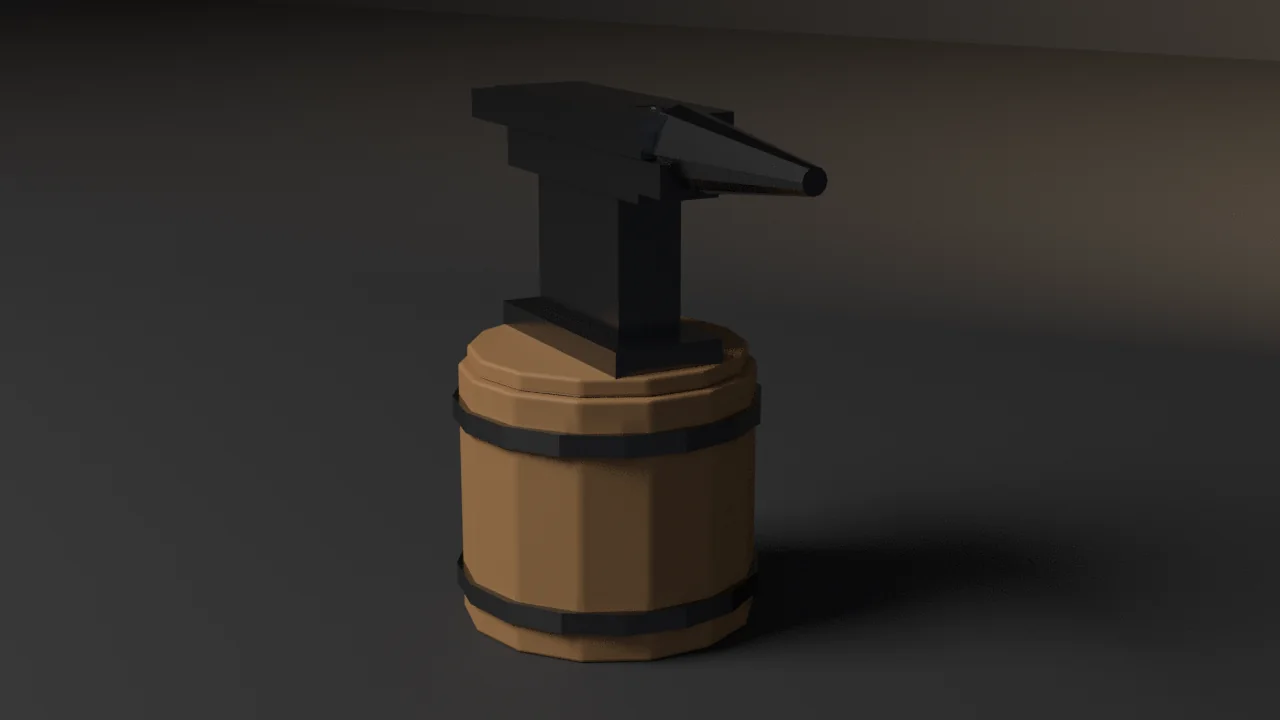
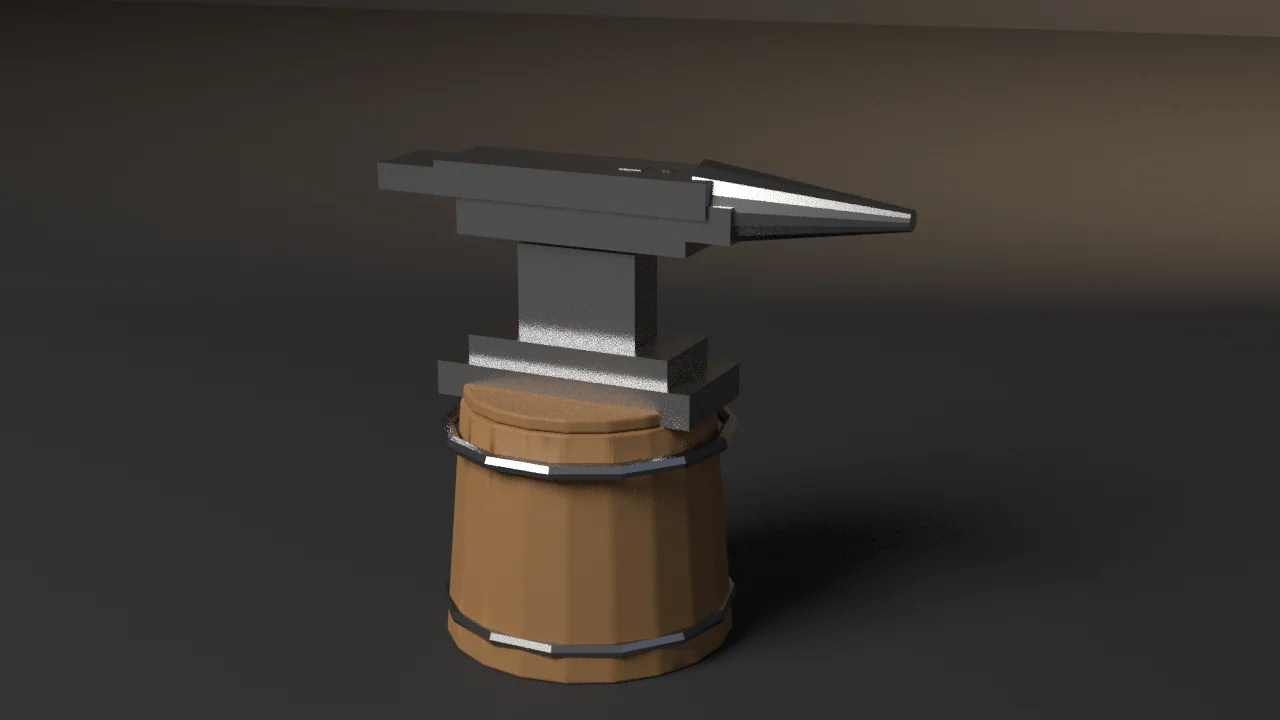
fix: rebuild anvil as a London-pattern silhouette
Stepped body, 16-seg horn, torus hoops, and a side-on camera so
the piece reads as an anvil instead of a stack of dark boxes.

Changed region(s): [[0.2812, 0.0917, 0.7188, 0.9472]]

diff --git a/showcase/anvil/anvil.py b/showcase/anvil/anvil.py
@@ -49,9 +49,9 @@ HORN_L = 0.28
 HEEL_L = 0.11
 
 BBOX_TOL = 0.01
-OUTER_SIZE = (0.750, 0.406, 0.690)
-BASE_TRIS_MIN = 980
-BASE_TRIS_MAX = 1140
+OUTER_SIZE = (0.746, 0.410, 0.682)
+BASE_TRIS_MIN = 1620
+BASE_TRIS_MAX = 1780
 LOD1_RATIO_MIN = 0.32
 LOD1_RATIO_MAX = 0.62
 LOD2_RATIO_MIN = 0.10
@@ -177,6 +177,37 @@ def add_cone(bm, loc, radius1, radius2, depth, segments, mat_idx, euler=(0.0, 0.
     return verts
 
 
+def add_rim(bm, loc, major, minor, mat_idx, euler=(0.0, 0.0, 0.0)):
+    n_major = 14
+    n_minor = 7
+    rings = []
+    for i in range(n_major):
+        u = i * (2.0 * math.pi / n_major)
+        ring = []
+        for j in range(n_minor):
+            v = j * (2.0 * math.pi / n_minor)
+            x = (major + minor * math.cos(v)) * math.cos(u)
+            y = (major + minor * math.cos(v)) * math.sin(u)
+            z = minor * math.sin(v)
+            ring.append(bm.verts.new((x, y, z)))
+        rings.append(ring)
+    bm.verts.ensure_lookup_table()
+    for i in range(n_major):
+        i2 = (i + 1) % n_major
+        for j in range(n_minor):
+            j2 = (j + 1) % n_minor
+            face = bm.faces.new(
+                (rings[i][j], rings[i2][j], rings[i2][j2], rings[i][j2])
+            )
+            face.material_index = mat_idx
+    verts = [v for ring in rings for v in ring]
+    rot = Euler(euler).to_matrix()
+    origin = Vector(loc)
+    for v in verts:
+        v.co = rot @ v.co + origin
+    return verts
+
+
 def pack_uvs(bm, margin=0.08):
     uv = bm.loops.layers.uv.new("UVMap")
     faces = list(bm.faces)
@@ -227,17 +258,23 @@ def build_anvil_mesh(name, bevel_offset, bevel_segments):
         metal = []
 
         wood.extend(
-            add_cyl(
-                bm, (0.0, 0.0, STUMP_H / 2.0), STUMP_R, STUMP_H, 14, WOOD_IDX,
+            add_cone(
+                bm,
+                (0.0, 0.0, STUMP_H / 2.0),
+                STUMP_R + 0.010,
+                STUMP_R - 0.018,
+                STUMP_H,
+                20,
+                WOOD_IDX,
             )
         )
         wood.extend(
             add_cyl(
                 bm,
-                (0.0, 0.0, STUMP_H + 0.012),
-                STUMP_R - 0.012,
-                0.024,
-                14,
+                (0.0, 0.0, STUMP_H + 0.010),
+                STUMP_R - 0.022,
+                0.020,
+                20,
                 WOOD_IDX,
             )
         )
@@ -256,44 +293,45 @@ def build_anvil_mesh(name, bevel_offset, bevel_segments):
             for f in ret.get("faces") or []:
                 f.material_index = WOOD_IDX
 
-        for z in (0.055, STUMP_H - 0.055):
+        for z in (0.048, STUMP_H - 0.042):
             metal.extend(
-                add_cyl(
-                    bm,
-                    (0.0, 0.0, z),
-                    STUMP_R + 0.008,
-                    0.028,
-                    16,
-                    METAL_IDX,
-                )
+                add_rim(bm, (0.0, 0.0, z), STUMP_R + 0.004, 0.011, METAL_IDX)
             )
 
         z0 = STUMP_H
         metal.extend(
             add_box(
                 bm,
-                (0.0, 0.0, z0 + 0.028),
-                (FOOT_L, FOOT_W, 0.056),
+                (0.0, 0.0, z0 + 0.024),
+                (0.38, 0.168, 0.048),
                 METAL_IDX,
             )
         )
         metal.extend(
             add_box(
                 bm,
-                (0.0, 0.0, z0 + 0.056 + BODY_H / 2.0),
-                (WAIST_L, WAIST_W, BODY_H),
+                (0.0, 0.0, z0 + 0.066),
+                (0.30, 0.132, 0.038),
                 METAL_IDX,
             )
         )
         metal.extend(
             add_box(
                 bm,
-                (0.0, 0.0, z0 + 0.056 + BODY_H + 0.028),
-                (FACE_L * 0.90, FACE_W * 0.88, 0.056),
+                (0.0, 0.0, z0 + 0.148),
+                (0.176, 0.070, 0.130),
                 METAL_IDX,
             )
         )
-        face_z = z0 + 0.056 + BODY_H + 0.056 + FACE_T / 2.0
+        metal.extend(
+            add_box(
+                bm,
+                (0.0, 0.0, z0 + 0.248),
+                (0.34, 0.112, 0.052),
+                METAL_IDX,
+            )
+        )
+        face_z = z0 + 0.248 + 0.026 + FACE_T / 2.0
         metal.extend(
             add_box(
                 bm,
@@ -303,15 +341,15 @@ def build_anvil_mesh(name, bevel_offset, bevel_segments):
             )
         )
 
-        horn_z = face_z - 0.018
+        horn_z = face_z - 0.012
         metal.extend(
             add_cone(
                 bm,
-                (FACE_L / 2.0 + HORN_L / 2.0 - 0.02, 0.0, horn_z),
-                0.052,
-                0.016,
+                (FACE_L / 2.0 + HORN_L / 2.0 - 0.028, 0.0, horn_z),
+                0.056,
+                0.014,
                 HORN_L,
-                12,
+                16,
                 METAL_IDX,
                 euler=(0.0, math.pi / 2.0, 0.0),
             )
@@ -319,34 +357,34 @@ def build_anvil_mesh(name, bevel_offset, bevel_segments):
         metal.extend(
             add_box(
                 bm,
-                (FACE_L / 2.0 - 0.01, 0.0, horn_z - 0.028),
-                (0.09, FACE_W * 0.92, 0.040),
+                (FACE_L / 2.0 - 0.018, 0.0, horn_z - 0.018),
+                (0.10, FACE_W * 0.90, 0.048),
                 METAL_IDX,
             )
         )
         metal.extend(
             add_box(
                 bm,
-                (-FACE_L / 2.0 - HEEL_L / 2.0 + 0.02, 0.0, face_z - 0.008),
-                (HEEL_L, FACE_W * 0.92, FACE_T * 0.82),
+                (-FACE_L / 2.0 - HEEL_L / 2.0 + 0.016, 0.0, face_z - 0.006),
+                (HEEL_L, FACE_W * 0.90, FACE_T * 0.78),
                 METAL_IDX,
             )
         )
         metal.extend(
             add_box(
                 bm,
-                (FACE_L * 0.22, 0.0, face_z + FACE_T / 2.0 - 0.006),
-                (0.034, 0.034, 0.014),
+                (FACE_L * 0.18, 0.0, face_z + FACE_T / 2.0 - 0.005),
+                (0.032, 0.032, 0.012),
                 METAL_IDX,
             )
         )
         metal.extend(
             add_cyl(
                 bm,
-                (FACE_L * 0.32, 0.0, face_z + FACE_T / 2.0 - 0.004),
+                (FACE_L * 0.30, 0.0, face_z + FACE_T / 2.0 - 0.004),
                 0.009,
                 0.012,
-                8,
+                10,
                 METAL_IDX,
             )
         )
@@ -524,7 +562,7 @@ def check(skip_decimate):
     low = build_anvil_mesh("AnvilLow", bevel_offset=0.005, bevel_segments=2)
     high = build_anvil_mesh("AnvilHigh", bevel_offset=0.005, bevel_segments=4)
     wood = principled("AnvilStump", (0.34, 0.18, 0.07, 1.0), 0.0, 0.62)
-    metal = principled("AnvilSteel", (0.18, 0.185, 0.195, 1.0), 1.0, 0.24)
+    metal = principled("AnvilSteel", (0.44, 0.45, 0.47, 1.0), 1.0, 0.30)
     assign_slots(low, wood, metal)
     assign_slots(high, wood, metal)
 
@@ -673,7 +711,7 @@ def render_still(low, wood, tex, path, engine):
             ob.hide_render = True
             ob.hide_viewport = True
 
-    low.rotation_euler.z = math.radians(-22.0)
+    low.rotation_euler.z = math.radians(-8.0)
     low.rotation_euler.x = math.radians(0.0)
 
     floor_me = bpy.data.meshes.new("Floor")
@@ -720,10 +758,10 @@ def render_still(low, wood, tex, path, engine):
     cam_data = bpy.data.cameras.new("Cam")
     cam_data.lens = 50.0
     cam = bpy.data.objects.new("Cam", cam_data)
-    cam.location = (1.36, -1.68, 0.93)
+    cam.location = (0.70, -2.20, 1.08)
     scene.collection.objects.link(cam)
     aim = bpy.data.objects.new("Aim", None)
-    aim.location = (0.0, 0.0, 0.36)
+    aim.location = (0.0, 0.0, 0.40)
     scene.collection.objects.link(aim)
     con = cam.constraints.new("TRACK_TO")
     con.target = aim

diff --git a/showcase/anvil/README.md b/showcase/anvil/README.md
@@ -21,14 +21,14 @@ materials, UVs, evaluated LOD, collider, or export file.
 
 | Axis | Declared | Measured (4.5.11 / 5.1.2 / 5.2.1) |
 | --- | --- | --- |
-| Base triangles | 980–1140 | 1052 / 1052 / 1052 |
+| Base triangles | 1620–1780 | 1696 / 1696 / 1696 |
 | LOD1 ratio | 0.32–0.62 of base | 0.5000 / 0.5000 / 0.5000 |
-| LOD2 ratio | 0.10–0.35 of base | 0.2186 / 0.2186 / 0.2110 |
-| Materials | exactly 2 distinct, ≥24 metal faces | 2 slots, 102 metal |
+| LOD2 ratio | 0.10–0.35 of base | 0.2193 / 0.2193 / 0.2182 |
+| Materials | exactly 2 distinct, ≥24 metal faces | 2 slots, 274 metal |
 | UVs | in `0..1`, AABB overlap ≤ 1e-5 | in range, overlap 0 |
-| Outer AABB | (0.750, 0.406, 0.690) m ± 0.01 | (0.7500, 0.4060, 0.6900), zmin 0 |
-| Collider tris | ≤ 180 | 134 |
-| Export | written, size > 0 | 84092 / 84092 / 84088 bytes |
+| Outer AABB | (0.746, 0.410, 0.682) m ± 0.01 | (0.7460, 0.4095, 0.6820), zmin 0 |
+| Collider tris | ≤ 180 | 162 |
+| Export | written, size > 0 | 130852 / 130852 / 130840 bytes |
 
 DECIMATE COLLAPSE triangle counts are **not** identical across series —
 5.2.1 is more aggressive on LOD2. The gate is a ratio band, not an
